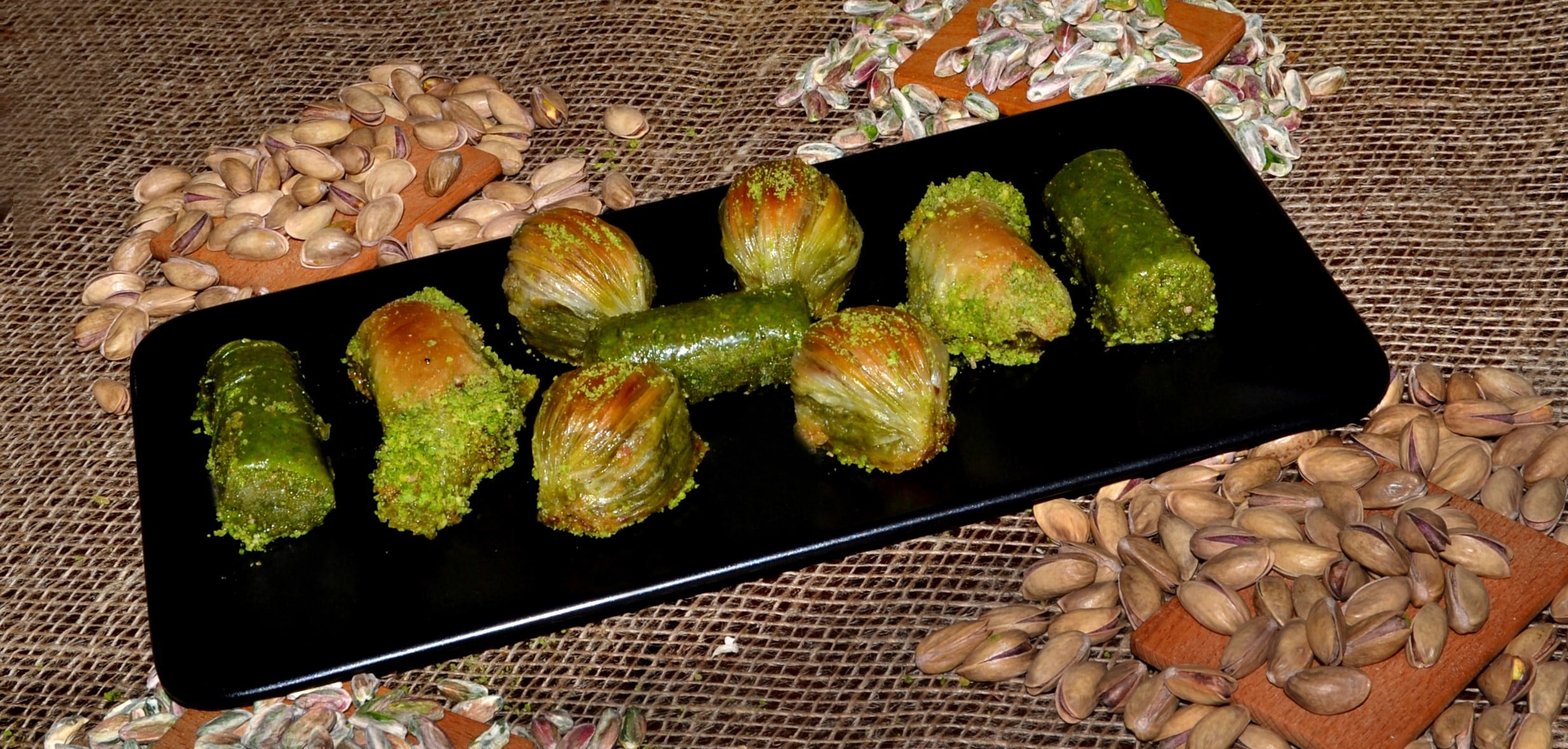
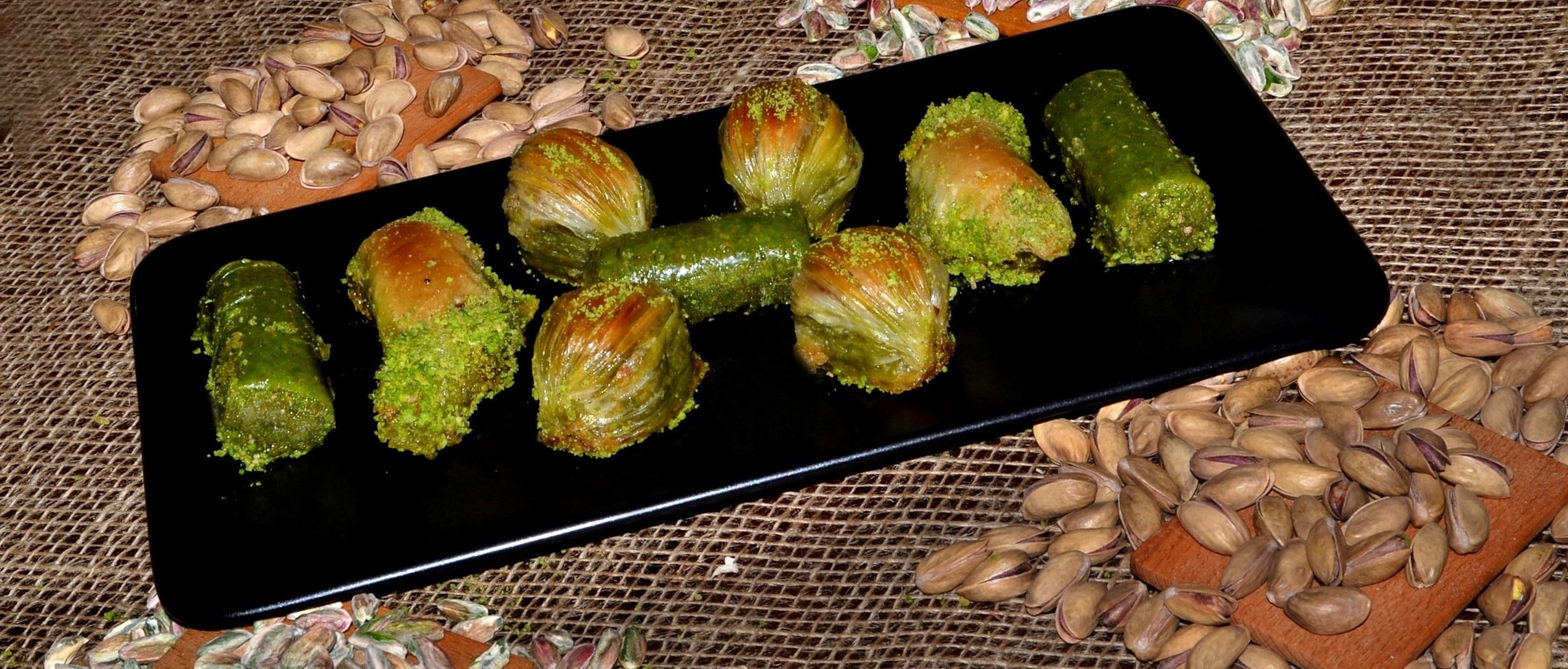
slide pictures enhencement

diff --git a/src/components/SlideItem.scss b/src/components/SlideItem.scss
@@ -1,15 +1,19 @@
-@import "./abstracts/mixins";
+@import './abstracts/mixins';
 
-.header__item > img{
-   margin: 0;
-   width: 100%;
-   height: auto;
-   vertical-align: middle;
-   object-fit: contain;
-   cursor: pointer;
-
+.header__item > img {
+	margin: 0;
+	width: 100%;
+	height: auto;
+	vertical-align: middle;
+	object-fit: cover;
+	cursor: pointer;
 }
 .header__item {
- text-align: center;
- background: linear-gradient(90deg, rgba(76,36,28,1) 0%, rgba(117, 55, 42, 0.966) 50%, rgba(76,36,28,1) 100%);
+	text-align: center;
+	background: linear-gradient(
+		90deg,
+		rgba(76, 36, 28, 1) 0%,
+		rgba(117, 55, 42, 0.966) 50%,
+		rgba(76, 36, 28, 1) 100%
+	);
 }
